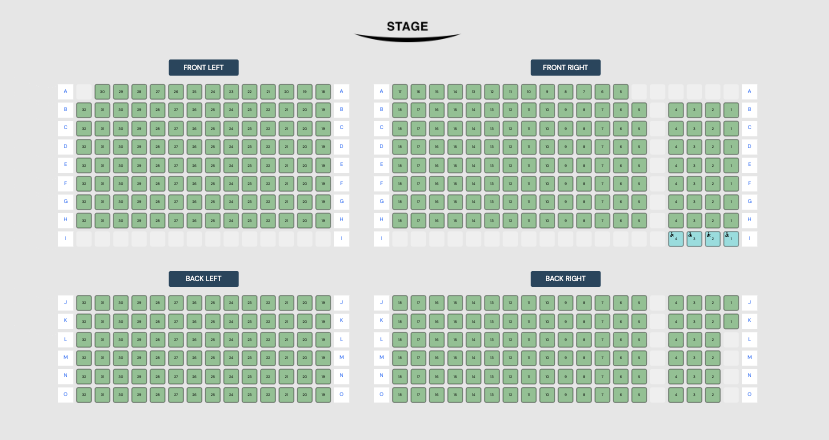
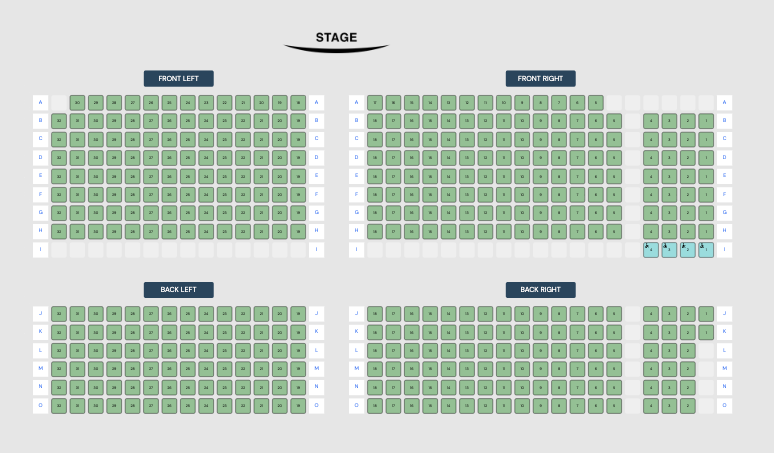
updates

diff --git a/html/67780.html b/html/67780.html
@@ -1,0 +1,113 @@
+<!-- Northbrook Studio Theatre - Floor Seating (67780) -->
+<table width="100%" border="0" cellspacing="0" cellpadding="0" align="center">
+  <!-- ALL -->
+  <tr>
+    <td>
+      <div align="center" style="position: relative">
+        <table align="center">
+          <!-- Top Seats -->
+          <tr>
+            <td>
+              <div align="center" style="position: relative;">
+                <table align="center">
+                  <tr>
+                    <td>
+                      <div align="center" style="position: relative; z-index: 1">{{{ sectionsMarkup.83594 }}}</div>
+                    </td>
+                  </tr>
+                </table>
+              </div>
+            </td>
+          </tr>
+          <tr>
+            <td>
+              <div align="center" style="position: relative; z-index: 0">
+                <img src="https://s3.amazonaws.com/prdv2-dt-client/seating_images/pixel.png" width="1" height="100" />
+              </div>
+            </td>
+          </tr>
+          <!-- Middle Top Seats -->
+          <tr>
+            <td>
+              <div align="center" style="position: relative;">
+                <table align="center">
+                  <tr>
+                    <td>
+                      <div class="adjust rotate45L" align="center" style="position: relative; z-index: 1">
+                        {{{ sectionsMarkupNoRowNames.83595 }}}
+                      </div>
+                    </td>
+                    <td>
+                      <div align="center" style="position: relative; z-index: 0">
+                        <img src="https://s3.amazonaws.com/prdv2-dt-client/seating_images/pixel.png" width="200" height="1" />
+                      </div>
+                    </td>
+                    <td>
+                      <div class="adjust rotate45R" align="center" style="position: relative; z-index: 1">
+                        {{{ sectionsMarkupNoRowNames.83596 }}}
+                      </div>
+                    </td>
+                  </tr>
+                </table>
+              </div>
+            </td>
+          </tr>
+          <tr>
+            <td>
+              <div align="center" style="position: relative; z-index: 0">
+                <img src="https://s3.amazonaws.com/prdv2-dt-client/seating_images/pixel.png" width="1" height="150" />
+              </div>
+            </td>
+          </tr>
+          <!-- Middle Bottom Seats -->
+          <tr>
+            <td>
+              <div align="center" style="position: relative;">
+                <table align="center">
+                  <tr>
+                    <td>
+                      <div class="adjust rotate45R" align="center" style="position: relative; z-index: 1">
+                        {{{ sectionsMarkupNoRowNames.83597 }}}
+                      </div>
+                    </td>
+                    <td>
+                      <div align="center" style="position: relative; z-index: 0">
+                        <img src="https://s3.amazonaws.com/prdv2-dt-client/seating_images/pixel.png" width="200" height="1" />
+                      </div>
+                    </td>
+                    <td>
+                      <div class="adjust rotate45L" align="center" style="position: relative; z-index: 1">
+                        {{{ sectionsMarkupNoRowNames.83598 }}}
+                      </div>
+                    </td>
+                  </tr>
+                </table>
+              </div>
+            </td>
+          </tr>
+          <tr>
+            <td>
+              <div align="center" style="position: relative; z-index: 0">
+                <img src="https://s3.amazonaws.com/prdv2-dt-client/seating_images/pixel.png" width="1" height="100" />
+              </div>
+            </td>
+          </tr>
+          <!-- Bottom Seats -->
+          <tr>
+            <td>
+              <div align="center" style="position: relative;">
+                <table align="center">
+                  <tr>
+                    <td>
+                      <div align="center" style="position: relative; z-index: 1">{{{ sectionsMarkup.83599 }}}</div>
+                    </td>
+                  </tr>
+                </table>
+              </div>
+            </td>
+          </tr>
+        </table>
+      </div>
+    </td>
+  </tr>
+</table>

diff --git a/html/67637.html b/html/67637.html
@@ -3,7 +3,7 @@
   <!-- Stage Image -->
   <tr>
     <td>
-      <div align="center" style="position: relative; z-index: 0">
+      <div align="center" style="position: relative;z-index: 0;right: 115px;">
         <img src="https://s3.amazonaws.com/prdv2-dt-client/seating_images/stage.png" alt="STAGE" width="300" height="80" />
       </div>
     </td>